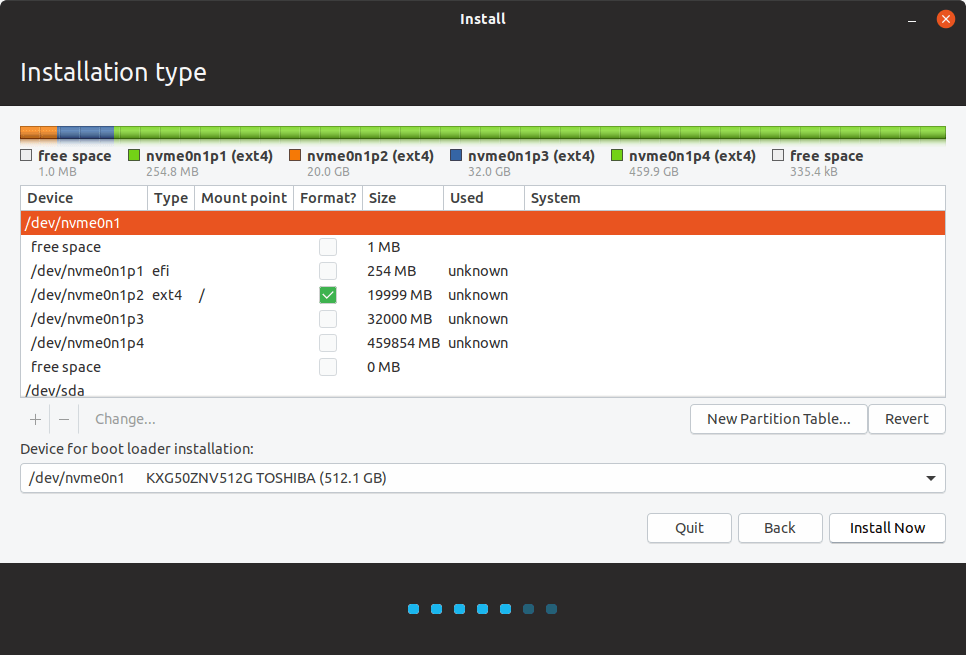
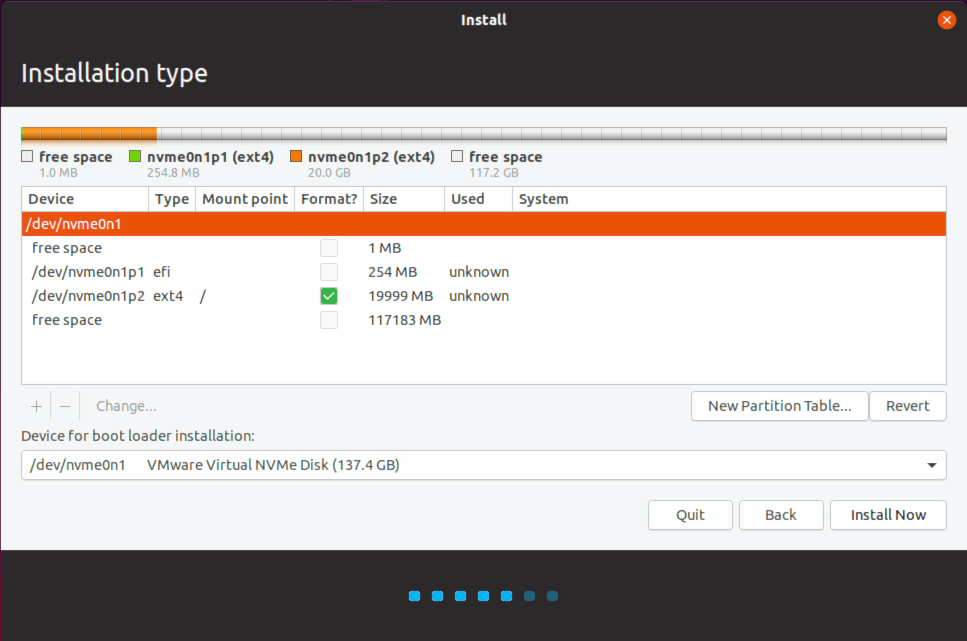
Simplify installation scripts

diff --git a/docs/ubuntu-installation.md b/docs/ubuntu-installation.md
@@ -14,8 +14,6 @@ The partitioning is :
 
 1. 256 MB : EFI partition
 2. 20 GB : system partition
-3. 32 GB : unused partition (will be used later)
-4. rest : unused partition (will be used later)
 
 ![img4](img/ubuntu-installation/4.png)
 ![img5](img/ubuntu-installation/5.png)
@@ -27,43 +25,34 @@ Skip the welcoming window.
 
 Don't install updates if Ubuntu asks to. The scripts will.
 
-Start the disk utility to name partitions so that OverlayFS can identify them.
-
-3. 32 GB - **Partition 3** : `01-tmp-home`
-4. rest - **Partition 4** : `01-tmp-system`
-
-The same procedure is required to make USB disk usable for the students, the partition name must be : `01-home`
-
-![img7](img/ubuntu-installation/7.png)
-![img8](img/ubuntu-installation/8.png)
-![img9](img/ubuntu-installation/9.png)
-
 ## OS configuration
 
-```shell
-student@tmp-hostname:~$ wget github.com/01-edu/public/archive/master.zip
-student@tmp-hostname:~$ unzip master.zip
-student@tmp-hostname:~$ cd public-master/scripts
-student@tmp-hostname:~$ sudo ./install_client.sh
+Run a terminal and type :
+
+```console
+student@ubuntu:~$ unset HISTFILE
+student@ubuntu:~$ apt-get -y install curl
+student@ubuntu:~$ bash <(curl -sSL raw.githubusercontent.com/01-edu/public/master/scripts/kickstart.sh)
 [...]
 Ask for student user password (will be removed later)
 [...]
-Ask to set the root password
-[...]
-Long installation/configuration process
-[...]
-student@tmp-hostname:~$ cat dconfig.txt | dconf load /
-student@tmp-hostname:~$ reboot
+Long installation/configuration process then reboots
 ```
 
 The system is now read-only, every data is written to a temporary partition.
 
 The session is password-less.
 
-To gain a superuser terminal with read/write access to the filesystem, type these commands:
+To gain a superuser terminal, use SSH :
 
-```shell
-student@tmp-hostname:~$ su -
-Password:
-root@tmp-hostname:~# overlayroot-chroot
+```console
+user@remote:~$ ssh -p521 root@IP_ADDRESS
+```
+
+To gain access with read/write access to the filesystem, use this command :
+
+```console
+root@ubuntu:~# overlayroot-chroot
+INFO: Chrooting into [/media/root-ro]
+root@ubuntu:/#
 ```
